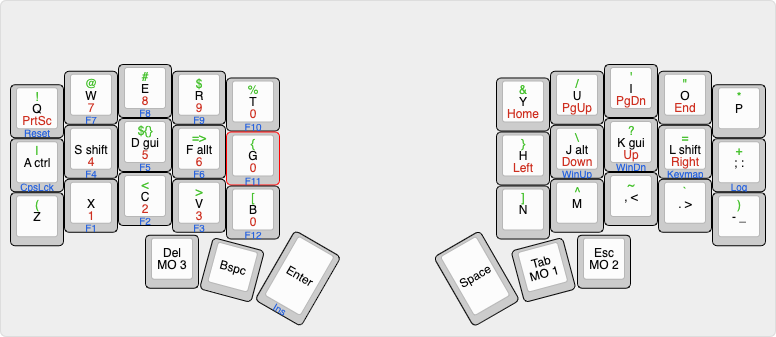
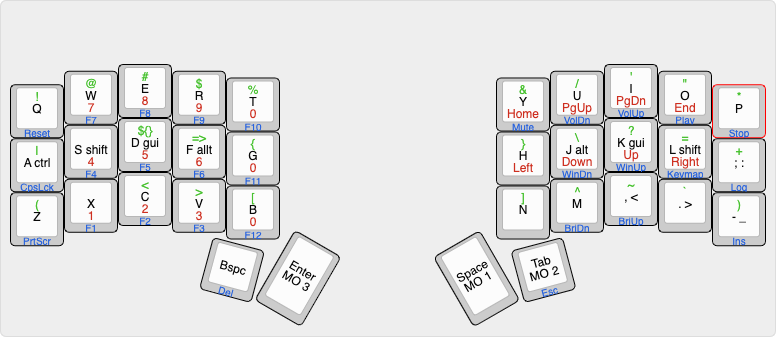
Do away with outer thumb keys

diff --git a/keyboards/crkbd/keymaps/antonioxdias/keymap.c b/keyboards/crkbd/keymaps/antonioxdias/keymap.c
@@ -48,50 +48,50 @@ enum macro_keycodes {
 const uint16_t PROGMEM keymaps[][MATRIX_ROWS][MATRIX_COLS] = {
   [_QWERTY] = LAYOUT( \
   //,-----------------------------------------------------.                    ,-----------------------------------------------------.
-       KC_TAB,    KC_Q,    KC_W,    KC_E,    KC_R,    KC_T,                         KC_Y,    KC_U,    KC_I,    KC_O,   KC_P,  KC_BSPC,\
+        KC_NO,    KC_Q,    KC_W,    KC_E,    KC_R,    KC_T,                         KC_Y,    KC_U,    KC_I,    KC_O,   KC_P,    KC_NO,\
   //|--------+--------+--------+--------+--------+--------|                    |--------+--------+--------+--------+--------+--------|
-CTL_T(KC_ESC),   CTL_A,   SFT_S,   GUI_D,   ALT_F,    KC_G,                         KC_H,   ALT_J,   GUI_K,   SFT_L,CTL_SCLN,  KC_ENT,\
+        KC_NO,   CTL_A,   SFT_S,   GUI_D,   ALT_F,    KC_G,                         KC_H,   ALT_J,   GUI_K,   SFT_L,CTL_SCLN,   KC_NO,\
   //|--------+--------+--------+--------+--------+--------|                    |--------+--------+--------+--------+--------+--------|
-      KC_LSPO,    KC_Z,    KC_X,    KC_C,    KC_V,    KC_B,                         KC_N,    KC_M, KC_COMM,  KC_DOT, KC_MINS, KC_RSPC,\
+        KC_NO,    KC_Z,    KC_X,    KC_C,    KC_V,    KC_B,                         KC_N,    KC_M, KC_COMM,  KC_DOT, KC_MINS,   KC_NO,\
   //|--------+--------+--------+--------+--------+--------+--------|  |--------+--------+--------+--------+--------+--------+--------|
-                                    LT(3, KC_DEL), KC_BSPC,  KC_ENT, KC_SPC,LT(2, KC_TAB),LT(1, KC_ESC)\
+                                        KC_NO, KC_BSPC,LT(3, KC_ENT), LT(2, KC_SPC),LT(1, KC_TAB), KC_NO\
                                       //`--------------------------'  `--------------------------'
 
   ),
 
   [_NumNav] = LAYOUT( \
   //,-----------------------------------------------------.                    ,-----------------------------------------------------.
-      KC_PSCR, KC_PSCR,    KC_7,    KC_8,    KC_9,    KC_0,                      KC_HOME, KC_PGUP, KC_PGDN,  KC_END,   KC_NO, KC_BSPC,\
+        KC_NO, KC_PSCR,    KC_7,    KC_8,    KC_9,    KC_0,                      KC_HOME, KC_PGUP, KC_PGDN,  KC_END,   KC_NO,   KC_NO,\
   //|--------+--------+--------+--------+--------+--------|                    |--------+--------+--------+--------+--------+--------|
-       KC_ESC,  KC_ESC,    KC_4,    KC_5,    KC_6,    KC_0,                      KC_LEFT, KC_DOWN,   KC_UP,KC_RIGHT,   KC_NO,  KC_INS,\
+        KC_NO,   KC_NO,    KC_4,    KC_5,    KC_6,    KC_0,                      KC_LEFT, KC_DOWN,   KC_UP,KC_RIGHT,   KC_NO,   KC_NO,\
   //|--------+--------+--------+--------+--------+--------|                    |--------+--------+--------+--------+--------+--------|
-      KC_LSPO,   KC_NO,    KC_1,    KC_2,    KC_3,    KC_0,                        KC_NO,   KC_NO, KC_PCMM, KC_PDOT,   KC_NO, KC_RSPC,\
+        KC_NO,   KC_NO,    KC_1,    KC_2,    KC_3,    KC_0,                        KC_NO,   KC_NO, KC_PCMM, KC_PDOT,   KC_NO,   KC_NO,\
   //|--------+--------+--------+--------+--------+--------+--------|  |--------+--------+--------+--------+--------+--------+--------|
-                                           KC_DEL, KC_BSPC,  KC_ENT,     KC_SPC, KC_TRNS,  KC_ESC \
+                                            KC_NO, KC_BSPC,  KC_ENT,     KC_SPC, KC_TRNS,   KC_NO \
                                       //`--------------------------'  `--------------------------'
     ),
 
   [_Symbols] = LAYOUT( \
   //,-----------------------------------------------------.                    ,-----------------------------------------------------.
-      KC_PIPE, KC_EXLM,   KC_AT, KC_HASH,  KC_DLR, KC_PERC,                      KC_AMPR, KC_SLSH, KC_QUOT, KC_DQUO, KC_ASTR, KC_BSPC,\
+        KC_NO, KC_EXLM,   KC_AT, KC_HASH,  KC_DLR, KC_PERC,                      KC_AMPR, KC_SLSH, KC_QUOT, KC_DQUO, KC_ASTR,   KC_NO,\
   //|--------+--------+--------+--------+--------+--------|                    |--------+--------+--------+--------+--------+--------|
-       KC_ESC, KC_PIPE,   KC_NO, LITERAL,ARROWFUNC,KC_LCBR,                      KC_RCBR, KC_BSLS, KC_QUES, KC_PEQL, KC_PLUS, KC_ENT,\
+        KC_NO, KC_PIPE,   KC_NO, LITERAL,ARROWFUNC,KC_LCBR,                      KC_RCBR, KC_BSLS, KC_QUES, KC_PEQL, KC_PLUS,   KC_NO,\
   //|--------+--------+--------+--------+--------+--------|                    |--------+--------+--------+--------+--------+--------|
-      KC_LSPO, KC_LPRN,   KC_NO,   KC_LT,   KC_GT, KC_LBRC,                      KC_RBRC, KC_CIRC, KC_TILD,  KC_GRV, KC_RPRN, KC_RSPC,\
+        KC_NO, KC_LPRN,   KC_NO,   KC_LT,   KC_GT, KC_LBRC,                      KC_RBRC, KC_CIRC, KC_TILD,  KC_GRV, KC_RPRN,   KC_NO,\
   //|--------+--------+--------+--------+--------+--------+--------|  |--------+--------+--------+--------+--------+--------+--------|
-                                           KC_DEL, KC_BSPC,  KC_ENT,     KC_SPC,  KC_TAB, KC_TRNS \
+                                            KC_NO, KC_BSPC,  KC_ENT,    KC_TRNS,  KC_TAB,   KC_NO \
                                       //`--------------------------'  `--------------------------'
   ),
 
   [_FMedia] = LAYOUT( \
   //,-----------------------------------------------------.                    ,-----------------------------------------------------.
-        RESET,   RESET,   KC_F7,   KC_F8,   KC_F9,  KC_F10,                      KC_MUTE, KC_VOLD, KC_VOLU, KC_MPLY, KC_MSTP,  KC_DEL,\
+        KC_NO,   RESET,   KC_F7,   KC_F8,   KC_F9,  KC_F10,                      KC_MUTE, KC_VOLD, KC_VOLU, KC_MPLY, KC_MSTP,   KC_NO,\
   //|--------+--------+--------+--------+--------+--------|                    |--------+--------+--------+--------+--------+--------|
-      KC_CAPS, KC_CAPS,   KC_F4,   KC_F5,   KC_F6,  KC_F11,                        KC_NO, KC_WH_U, KC_WH_D,  KEYMAP,     LOG,     LOG,\
+        KC_NO, KC_CAPS,   KC_F4,   KC_F5,   KC_F6,  KC_F11,                        KC_NO, KC_WH_D, KC_WH_U,  KEYMAP,     LOG,   KC_NO,\
   //|--------+--------+--------+--------+--------+--------|                    |--------+--------+--------+--------+--------+--------|
-      KC_LSFT,   KC_NO,   KC_F1,   KC_F2,   KC_F3,  KC_F12,                        KC_NO, KC_BRID, KC_BRIU,   KC_NO,   KC_NO, KC_RSFT,\
+        KC_NO, KC_PSCR,   KC_F1,   KC_F2,   KC_F3,  KC_F12,                        KC_NO, KC_BRMD, KC_BRMU,   KC_NO,  KC_INS,   KC_NO,\
   //|--------+--------+--------+--------+--------+--------+--------|  |--------+--------+--------+--------+--------+--------+--------|
-                                          KC_TRNS, KC_BSPC,  KC_INS,     KC_SPC,  KC_TAB,  KC_ESC \
+                                            KC_NO,  KC_DEL, KC_TRNS,     KC_SPC,  KC_ESC,   KC_NO \
                                       //`--------------------------'  `--------------------------'
   )
 };
